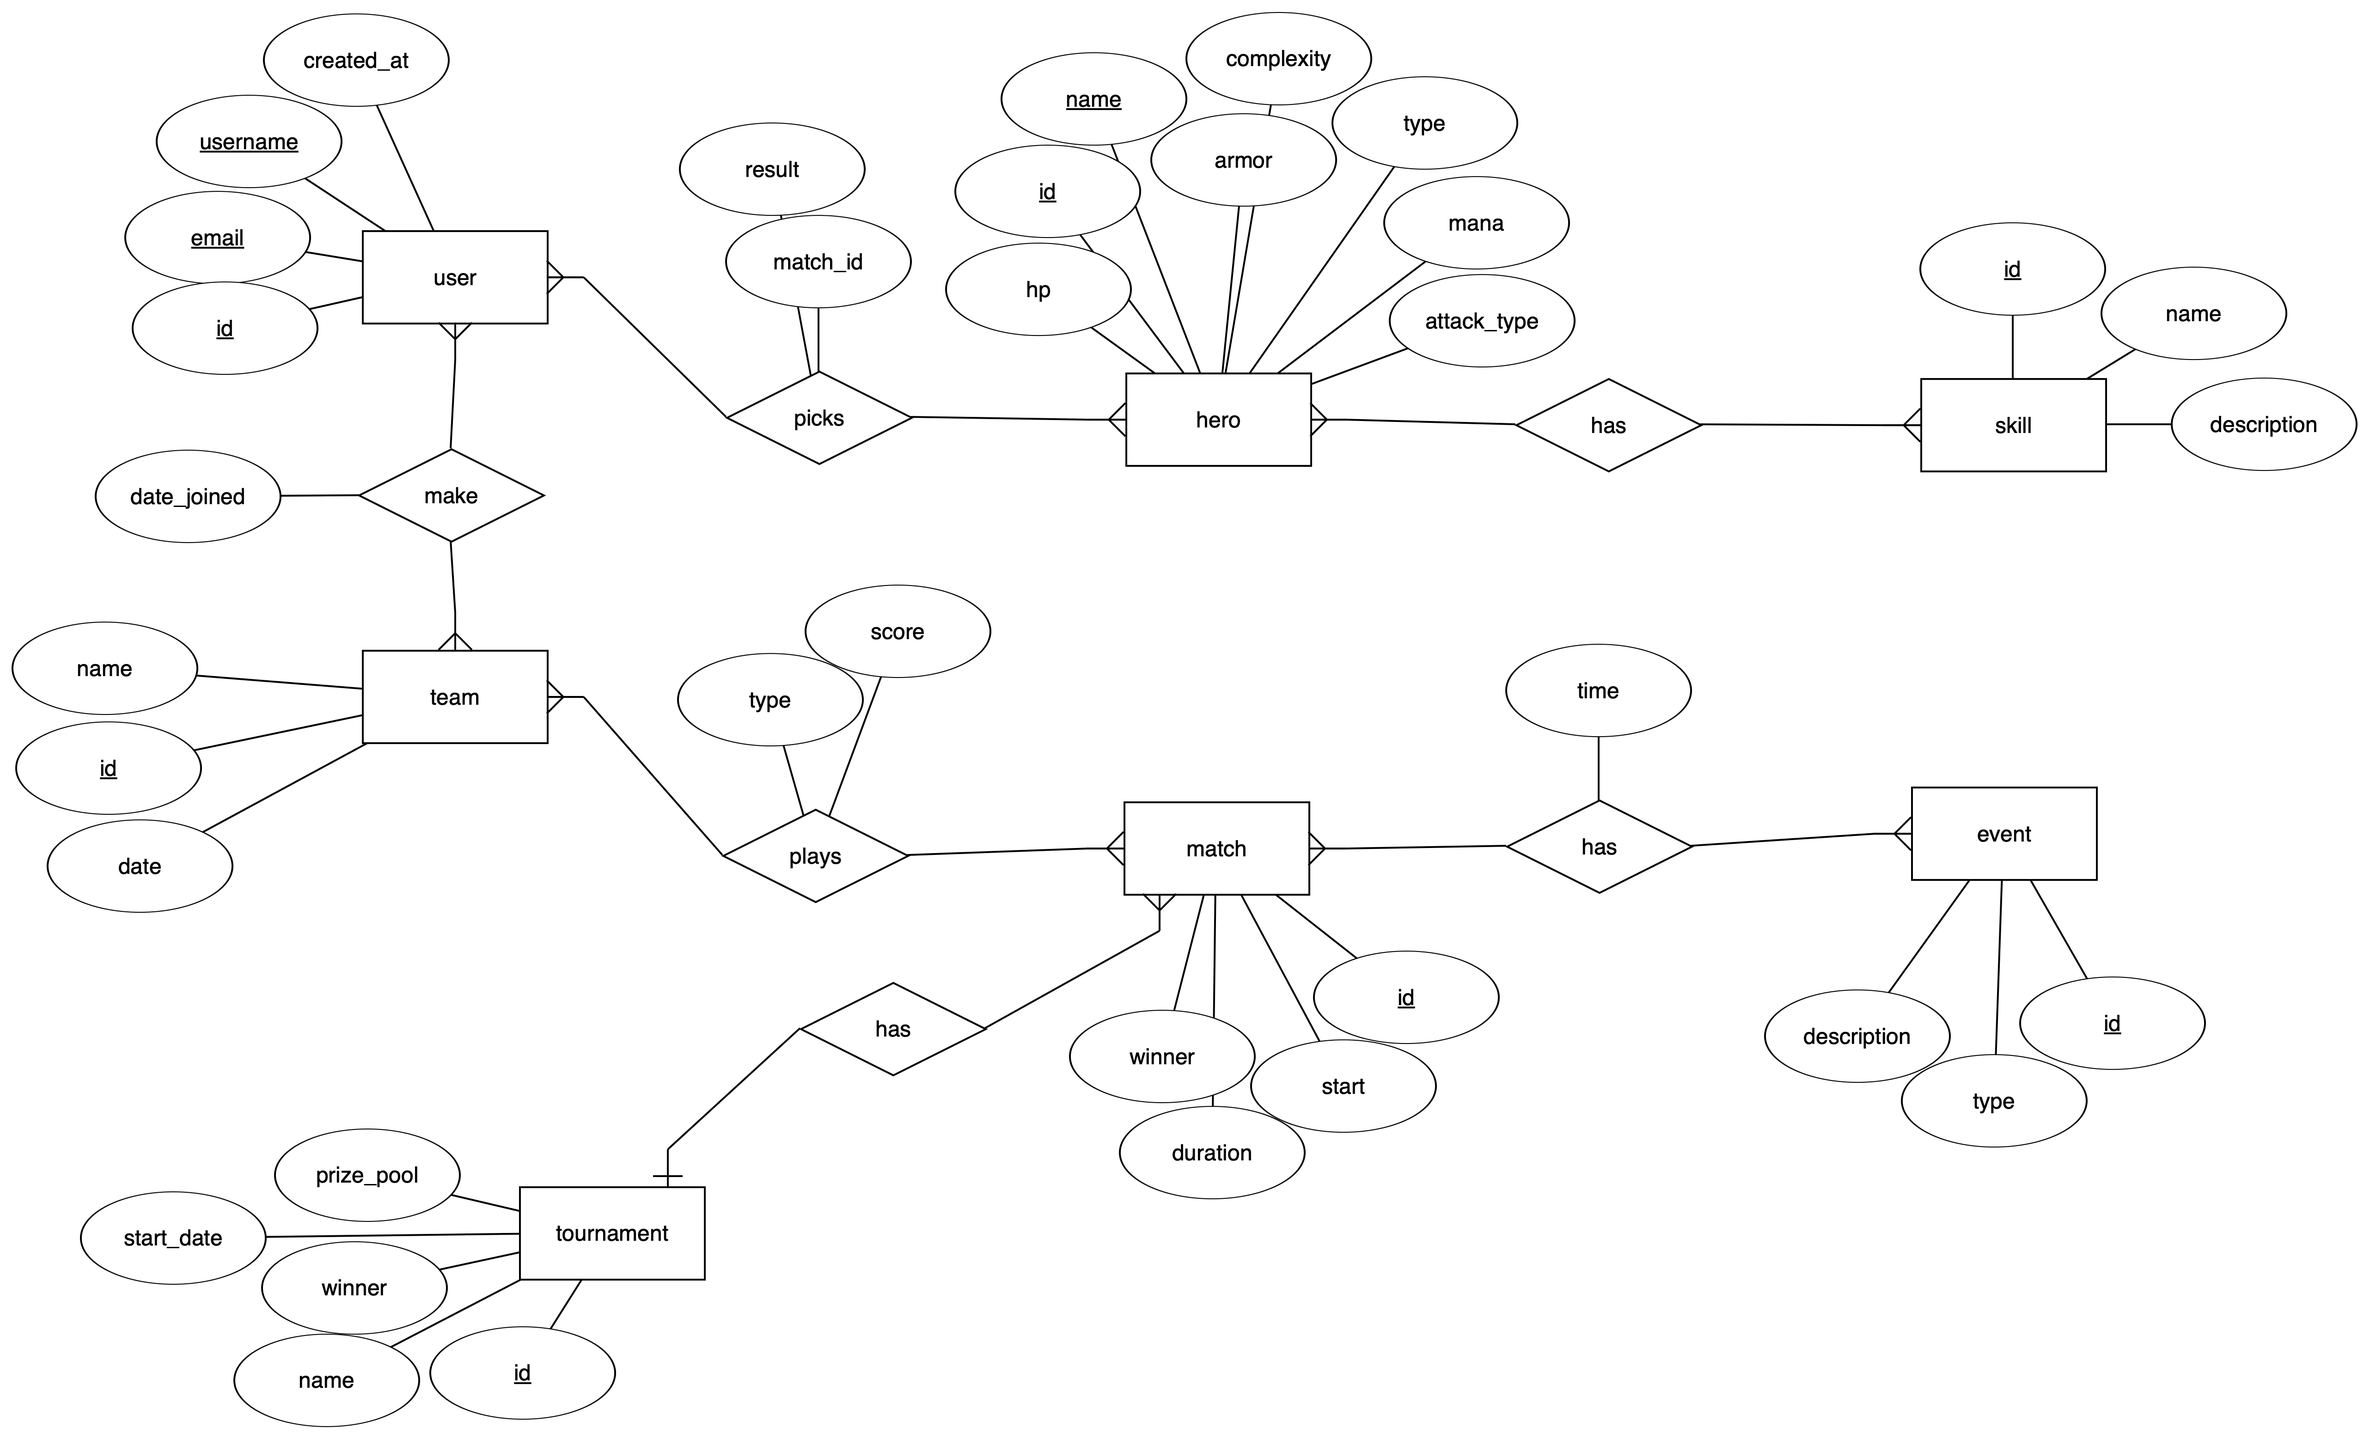
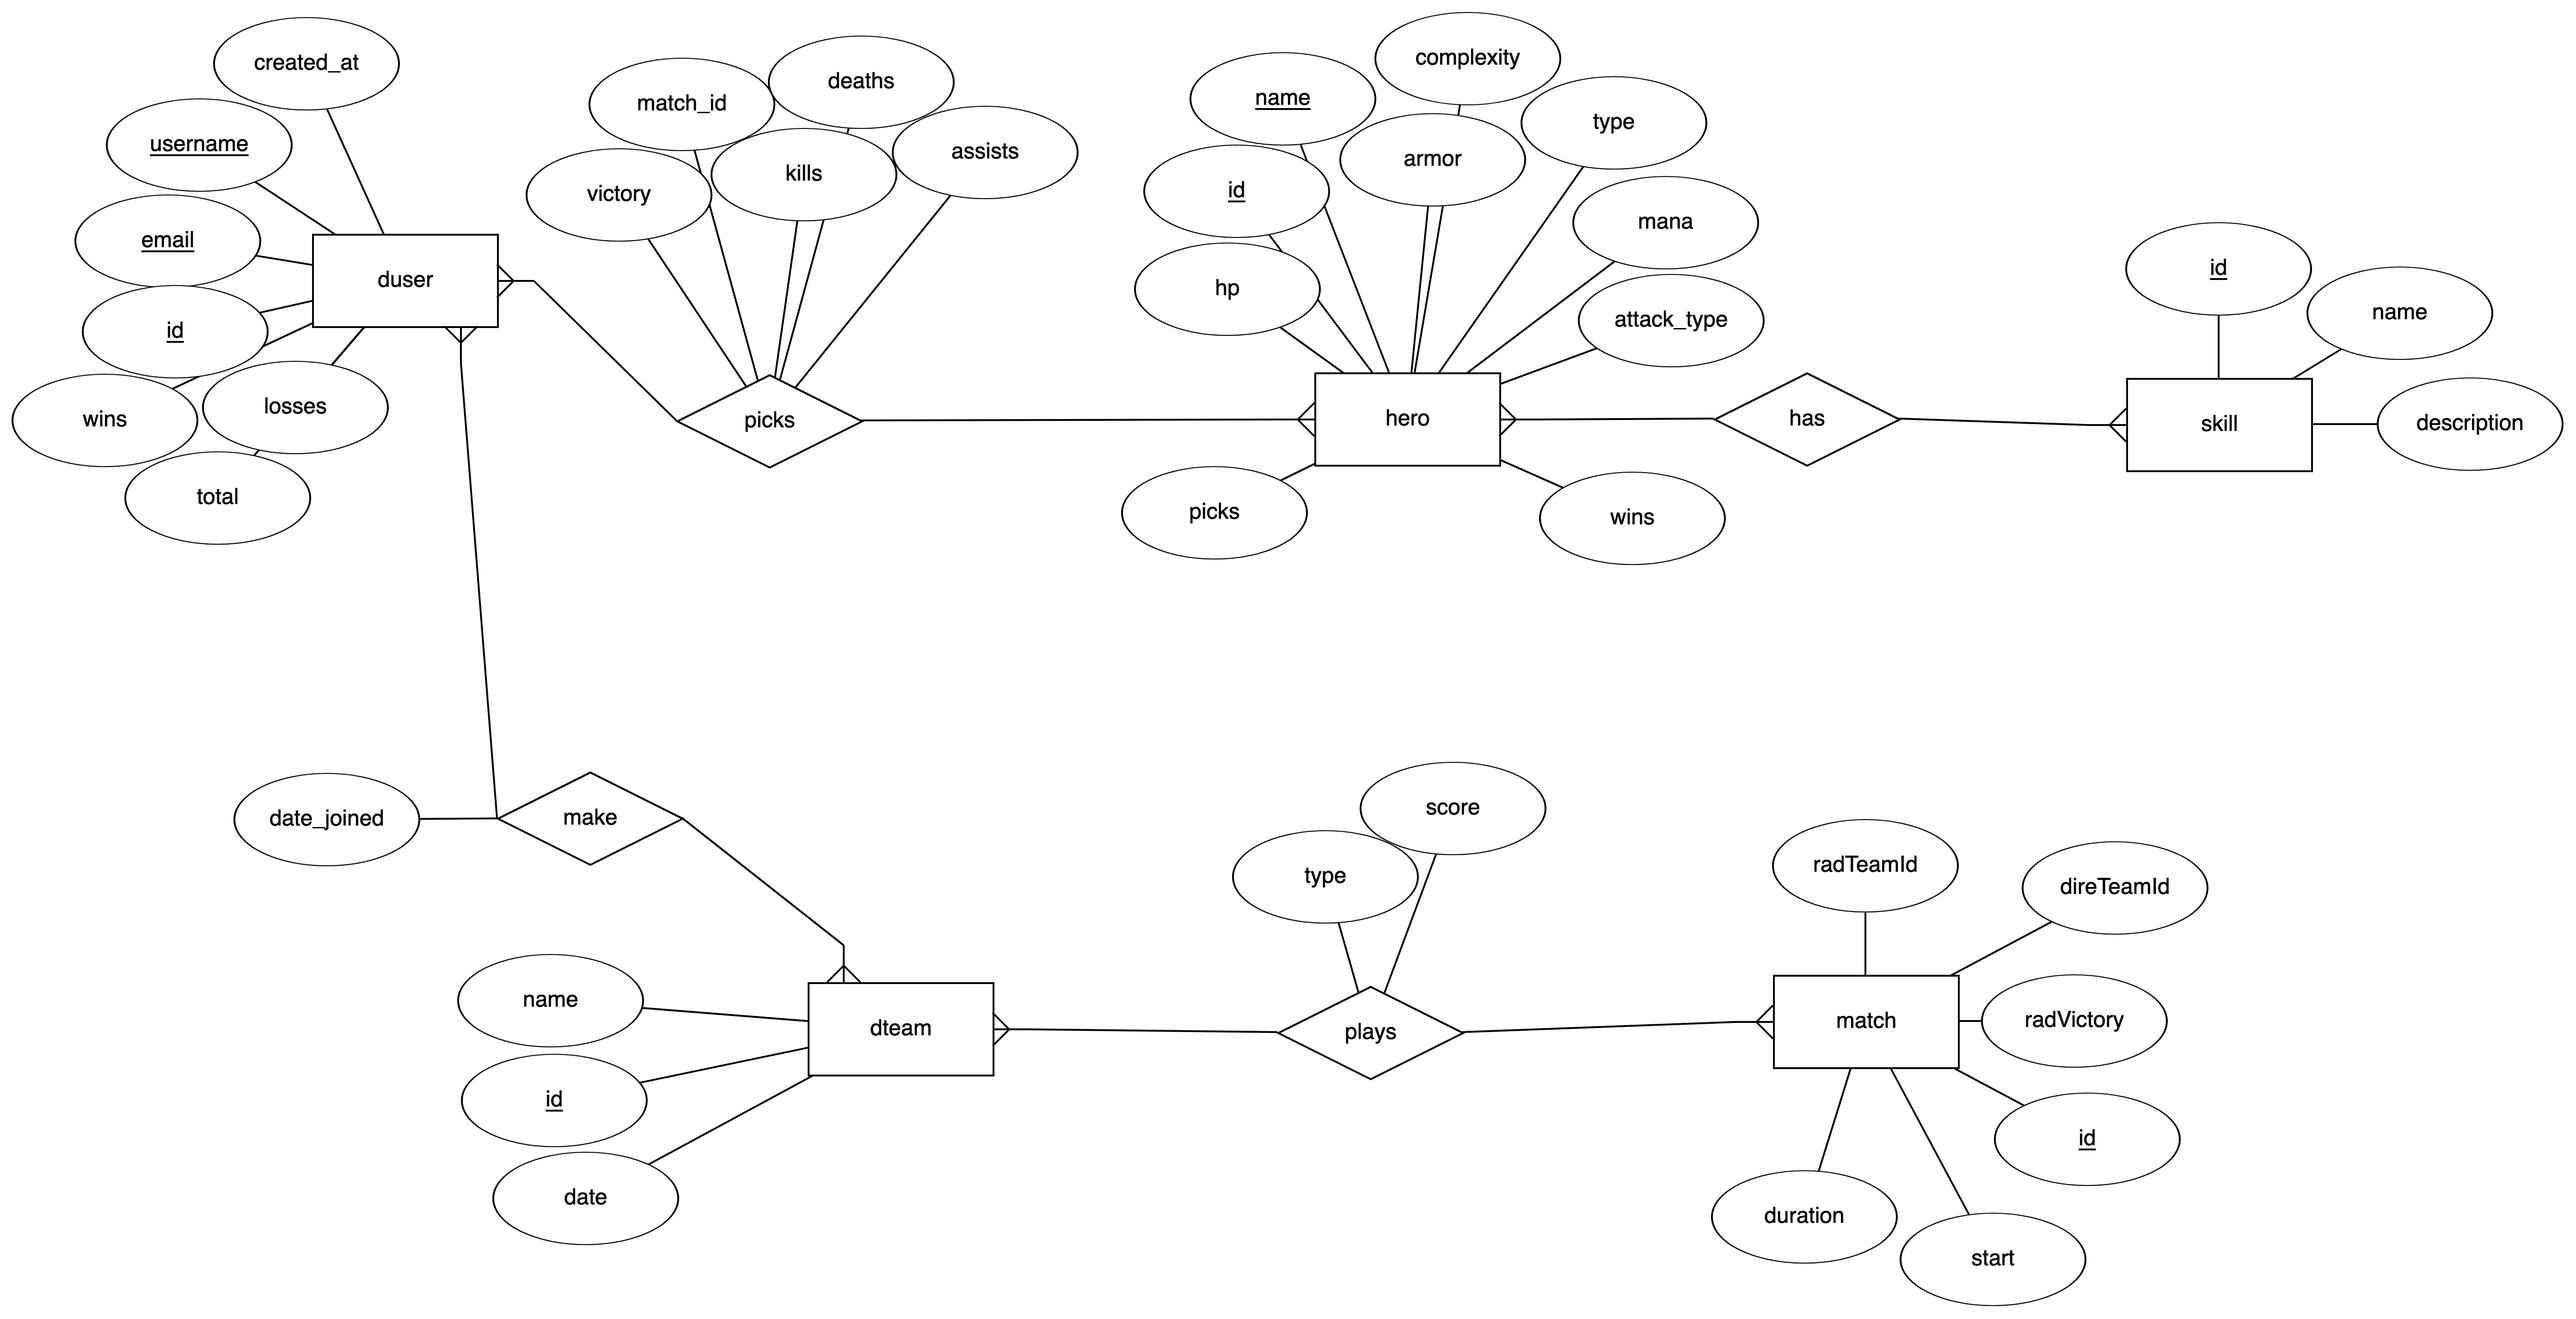
updated ER diagam

diff --git a/2/README.md b/2/README.md
@@ -8,19 +8,24 @@
 
 ## Main Entities
 1. User
-   1. Id
-   2. Username
-   3. Email
-   4. Created At
+   1. id (PK)
+   2. username
+   3. email
+   4. created_at
+   5. wins 
+   6. losses 
+   7. total
 2. Hero
-   1. Id
-   2. Name
-   3. AttackType -> Melee/Ranged
-   4. Armor
-   5. Complexity
-   6. Type -> Strength/Intelligence/Agility (enum)
-   7. HP
-   8. Mana
+   1. id (PK)
+   2. name
+   3. attack_type -> Melee/Ranged
+   4. armor
+   5. complexity
+   6. type -> Strength/Intelligence/Agility (enum)
+   7. hp
+   8. mana
+   9. picks
+   10. wins
 3. Skill
    1. Id
    2. Name -> Mana Break/Blink/Counter Spell etc
@@ -30,21 +35,12 @@
    2. name
    3. date
 5. Match
-   1. Id
-   2. Start
-   3. End
-   4. Winner
-   5. Score
-6. Event
-   1. Id
-   2. Type -> Kill/BuyBack/Roshan (enum)
-   3. Description
-7. Tournament
-   1. Id
-   2. Name
-   3. Winner
-   4. Start Date
-   5. Prize Pool
+   1. id (PK)
+   2. start
+   3. duration
+   4. radTeamId (FK)
+   5. direTeamId (FK)
+   6. radVictory
 
 ## Tables
 
@@ -118,6 +114,9 @@ CREATE TABLE Hero (
 
 ### Schema
 ![Alt text](./images/Hero%20Schema.png?height=500 "Title")
+
+### Sample Data
+![Alt text](./images/Hero%20Sample%20Data.png?height=500 "Title")
 
 
 ## Skill
